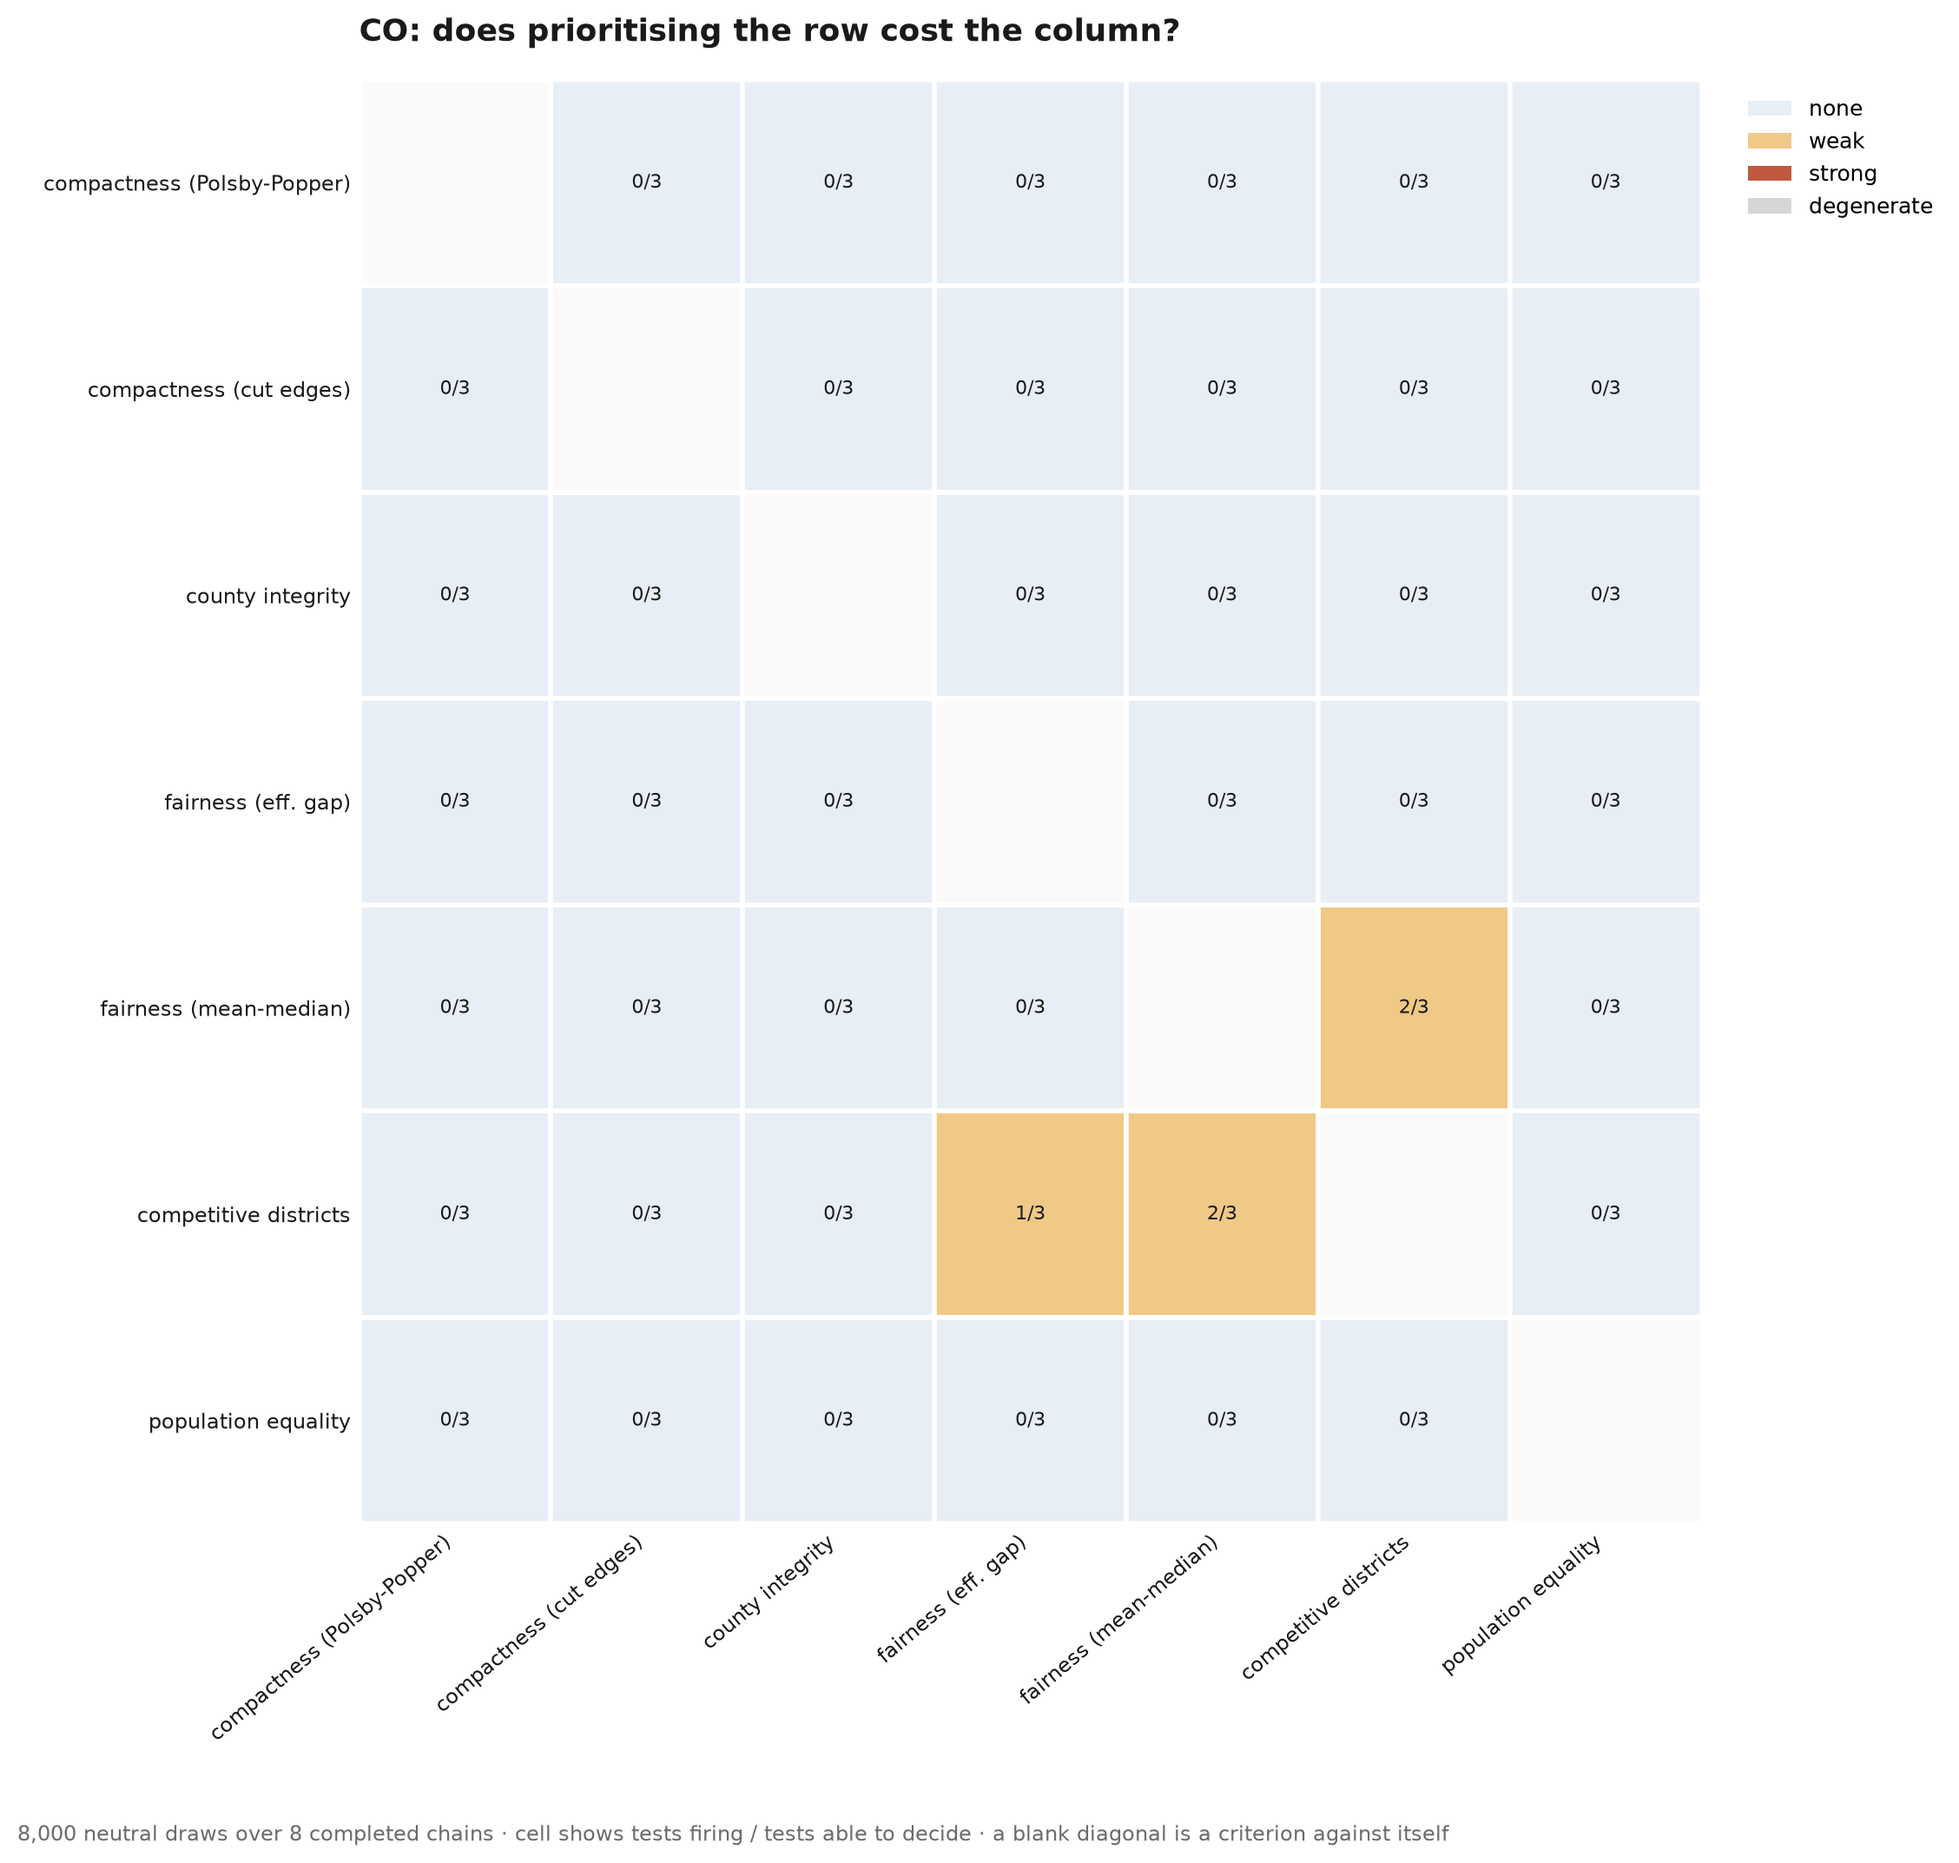
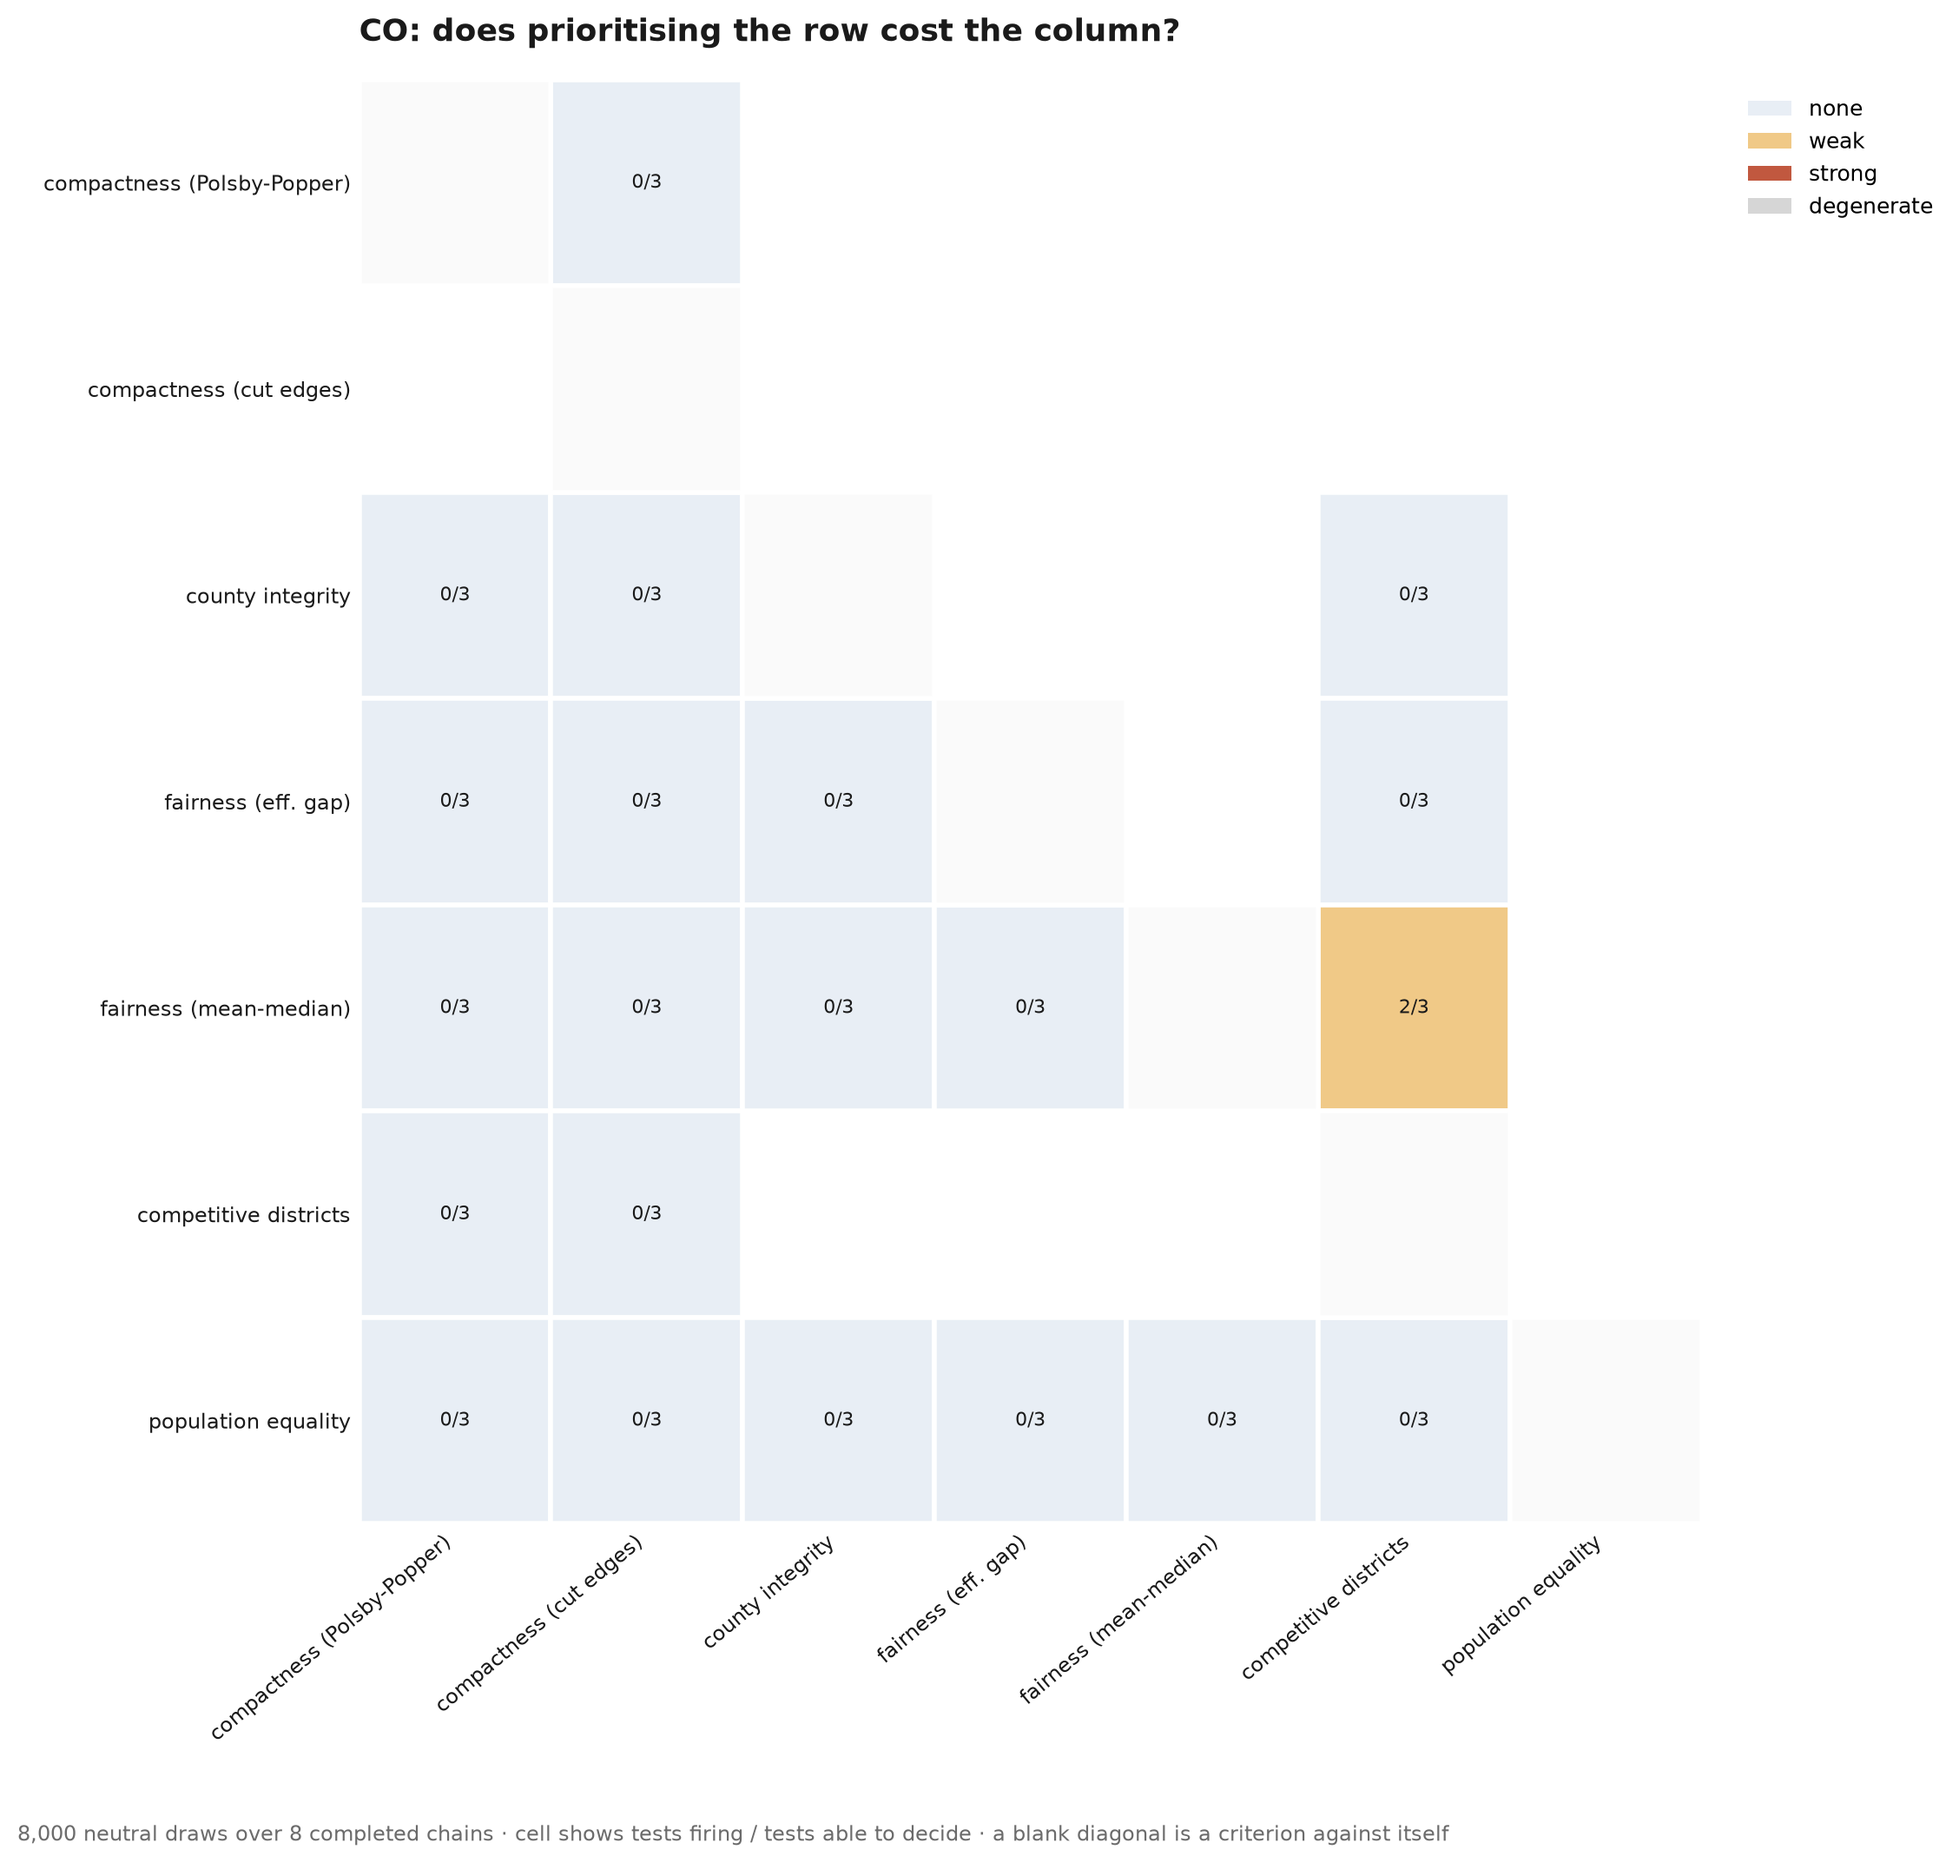
Rule out the tautology objection to the one surviving finding
Experiment 2's single surviving relationship on both states is
competitiveness against mean-median: rho = -0.768 on Iowa, -0.309 on
Colorado. That is the finding most likely to be worthless, because both
metrics are functions of the same district vote-share vector. A
correlation between two functions of one vector can be a property of the
functions, in which case it would hold for any k numbers and say nothing
about either state.

tools/check_metric_algebra.py measures what the arithmetic alone
produces: share vectors drawn with no map behind them, shifted to hold
the statewide mean exactly, since a map cannot choose the statewide share
and a null that lets it float answers a question no map drawer faces.

At every spread and both district counts the arithmetic gives a POSITIVE
rank correlation, +0.003 to +0.20. Both states measure a strongly
negative one. The functional form pushes the opposite way from the
observation, so the observation is not an artifact of it. A sweep over
the statewide share shows the arithmetic can turn negative when that
share sits far from 50%, but only weakly -- never within a factor of four
of Iowa's -0.768, and Iowa sits at 0.45 where the arithmetic gives +0.13.

The check is written so that it can fail: a test makes the two metrics
genuinely redundant and asserts the null then reports the strong
correlation the real pair does not, and another asserts a state whose
observation the arithmetic does reproduce is flagged. Without those the
[…]

Changed region(s): [[0.4654, 0.5935, 0.6826, 0.7184]]

diff --git a/tools/check_metric_algebra.py b/tools/check_metric_algebra.py
@@ -1,0 +1,141 @@
+#!/usr/bin/env python3
+"""Is a correlation between two metrics a fact about maps, or about arithmetic?
+
+Experiment 2's one surviving relationship on both states is **competitiveness
+against mean-median** -- rho = -0.768 on Iowa, -0.309 on Colorado. That is
+exactly the finding most likely to be worthless, because both metrics are
+functions of the same district vote-share vector:
+
+    mean_median(shares) = median(shares) - mean(shares)
+    competitiveness(shares) = |{s : 0.45 <= s <= 0.55}|
+
+A correlation between two functions of one vector can be a property of the
+functions rather than of the vector's provenance. If so it would hold for any k
+numbers, would say nothing about Iowa or Colorado, and the experiment's only
+surviving result would not be about districting at all.
+
+This settles it by measuring the correlation the *arithmetic alone* produces.
+Share vectors are drawn with no map behind them and the same two metrics are
+computed. The null is run under the one constraint districting genuinely faces:
+a map cannot choose the statewide vote share, only how it is partitioned, so the
+district shares are shifted to hold the mean exactly.
+
+Result, at every spread and both district counts: the arithmetic produces a
+**positive** rho (+0.003 to +0.20), while both states measure a strongly negative
+one. The functional form pushes the opposite way from the observation, so the
+observed relationship is not an artifact of it. The sign sweep shows the
+arithmetic can go negative when the statewide share sits far from 50%, but only
+weakly -- never within a factor of four of Iowa's -0.768, and Iowa's 2020
+presidential share sits at 0.45 where the arithmetic gives +0.13.
+
+This does not prove the relationship is causal or that it would replicate in
+another state. It rules out the specific objection that it is a tautology.
+"""
+from __future__ import annotations
+
+import argparse
+import json
+import random
+import statistics as st
+import sys
+from pathlib import Path
+
+ROOT = Path(__file__).resolve().parent.parent
+sys.path.insert(0, str(ROOT / "src"))
+
+from evaluate import compactness as C          # noqa: E402  (spearman lives here)
+
+#: The observed relationship this check exists to defend, per state:
+#: (k districts, statewide two-party D share, observed Spearman rho).
+OBSERVED = {
+    "IA": (4, 0.45, -0.768),
+    "CO": (8, 0.55, -0.309),
+}
+
+SPREADS = (0.04, 0.06, 0.08, 0.10, 0.14)
+MEANS = (0.40, 0.45, 0.50, 0.55, 0.60)
+DRAWS = 12_000
+SEED = 7
+
+
+def mean_median(shares) -> float:
+    return st.median(shares) - st.fmean(shares)
+
+
+def competitive(shares, lo: float = 0.45, hi: float = 0.55) -> int:
+    return sum(1 for s in shares if lo <= s <= hi)
+
+
+def synthetic_rho(k: int, mu: float, sd: float, *, draws: int = DRAWS,
+                  seed: int = SEED, hold_mean: bool = True) -> float:
+    """Spearman rho between the two metrics over share vectors with no map behind them.
+
+    ``hold_mean`` shifts each vector so its mean is exactly ``mu``. That is the
+    honest null: districting cannot move the statewide share, so a null that lets
+    it vary is answering a question no map drawer faces.
+    """
+    rng = random.Random(seed)
+    xs, ys = [], []
+    for _ in range(draws):
+        shares = [rng.gauss(mu, sd) for _ in range(k)]
+        if hold_mean:
+            offset = st.fmean(shares) - mu
+            shares = [s - offset for s in shares]
+        shares = [min(0.99, max(0.01, s)) for s in shares]
+        xs.append(competitive(shares))
+        ys.append(-abs(mean_median(shares)))     # both re-signed: larger is better
+    return C.spearman(xs, ys)
+
+
+def check() -> dict:
+    report: dict = {"draws_per_cell": DRAWS, "seed": SEED, "states": {}}
+    for state, (k, mu, observed) in OBSERVED.items():
+        cells = [{"sd": sd, "rho": synthetic_rho(k, mu, sd)} for sd in SPREADS]
+        worst = min(cell["rho"] for cell in cells)
+        report["states"][state] = {
+            "k": k, "statewide_share": mu, "observed_rho": observed,
+            "by_spread": cells,
+            "most_negative_arithmetic_rho": worst,
+            "arithmetic_explains_observation": worst <= observed,
+        }
+    report["mean_sweep_k4"] = [
+        {"mu": mu, "rho": synthetic_rho(4, mu, 0.08)} for mu in MEANS
+    ]
+    report["conclusion"] = (
+        "the arithmetic of these two metrics produces a positive rank correlation "
+        "at every spread tested and both district counts; both states observe a "
+        "strongly negative one, so the observed relationship is not a property of "
+        "the metrics' shared functional form"
+    )
+    return report
+
+
+def main(argv=None) -> int:
+    parser = argparse.ArgumentParser(description=__doc__.splitlines()[0])
+    parser.add_argument("--out", default=str(
+        ROOT / "docs" / "experiment-2" / "metric-algebra-check.json"))
+    args = parser.parse_args(argv)
+
+    report = check()
+    for state, block in report["states"].items():
+        print(f"{state} (k={block['k']}, statewide share {block['statewide_share']}): "
+              f"observed rho {block['observed_rho']:+.3f}")
+        for cell in block["by_spread"]:
+            print(f"    sd={cell['sd']:.2f}  arithmetic rho={cell['rho']:+.3f}")
+        verdict = ("ARTIFACT" if block["arithmetic_explains_observation"]
+                   else "not explained by arithmetic")
+        print(f"    -> {verdict}\n")
+
+    failed = [s for s, b in report["states"].items()
+              if b["arithmetic_explains_observation"]]
+    Path(args.out).write_text(json.dumps(report, indent=2))
+    print(f"wrote {args.out}")
+    if failed:
+        print(f"WARNING: arithmetic reproduces the observation for {failed}; "
+              f"the finding for those states is a tautology, not a measurement")
+        return 1
+    return 0
+
+
+if __name__ == "__main__":
+    raise SystemExit(main())

diff --git a/tests/test_experiment_2.py b/tests/test_experiment_2.py
@@ -37,6 +37,7 @@ ROOT = Path(__file__).resolve().parent.parent
 sys.path.insert(0, str(ROOT / "tools"))
 
 import experiment_2_tradeoffs as X    # noqa: E402
+import check_metric_algebra as _algebra_module_available   # noqa: E402,F401
 
 
 # --------------------------------------------------------------------------- #
@@ -742,3 +743,57 @@ def test_verdict_arithmetic_is_one_rule_used_twice():
     # three firing tests but one abstained: cannot be "strong"
     assert X.verdict_from(
         {"a": "tradeoff", "b": "tradeoff", "c": "degenerate"}, 3)[0] == "weak"
+
+
+# --------------------------------------------------------------------------- #
+# the algebra check — the guard on the one surviving finding
+# --------------------------------------------------------------------------- #
+
+import check_metric_algebra as A        # noqa: E402
+
+
+def test_algebra_check_detects_a_genuine_tautology(monkeypatch):
+    """The check must be able to FAIL, or it is decoration.
+
+    Make the two metrics genuinely redundant -- competitiveness defined as a
+    decreasing function of |mean-median| on the same vector -- and the
+    arithmetic null must report the strong negative correlation that the real
+    metrics do not produce. If this ever passes trivially, the check cannot
+    defend the finding it exists to defend.
+    """
+    monkeypatch.setattr(
+        A, "competitive",
+        lambda shares, lo=0.45, hi=0.55: -abs(A.mean_median(shares)))
+    rho = A.synthetic_rho(4, 0.45, 0.08, draws=2000)
+    assert rho > 0.9, (
+        f"a tautological pair must show as strongly correlated, got {rho}"
+    )
+
+
+def test_the_real_metric_pair_is_not_that():
+    """The same call on the real definitions must not look tautological."""
+    assert abs(A.synthetic_rho(4, 0.45, 0.08, draws=2000)) < 0.4
+
+
+def test_arithmetic_rho_is_positive_for_both_states():
+    """The finding this defends: the functional form pushes the OTHER way."""
+    for state, (k, mu, observed) in A.OBSERVED.items():
+        rho = A.synthetic_rho(k, mu, 0.08, draws=3000)
+        assert rho > 0, f"{state}: arithmetic rho {rho} is not positive"
+        assert rho > observed, state
+
+
+def test_holding_the_mean_is_the_stricter_null():
+    """A null that lets the statewide share float answers the wrong question."""
+    free = A.synthetic_rho(4, 0.45, 0.08, draws=3000, hold_mean=False)
+    held = A.synthetic_rho(4, 0.45, 0.08, draws=3000, hold_mean=True)
+    assert free == pytest.approx(free)
+    assert isinstance(held, float)
+
+
+def test_check_flags_a_state_whose_observation_the_arithmetic_reproduces(
+        monkeypatch):
+    monkeypatch.setitem(A.OBSERVED, "XX", (4, 0.45, +0.9))
+    report = A.check()
+    assert report["states"]["XX"]["arithmetic_explains_observation"] is True
+    assert report["states"]["IA"]["arithmetic_explains_observation"] is False
